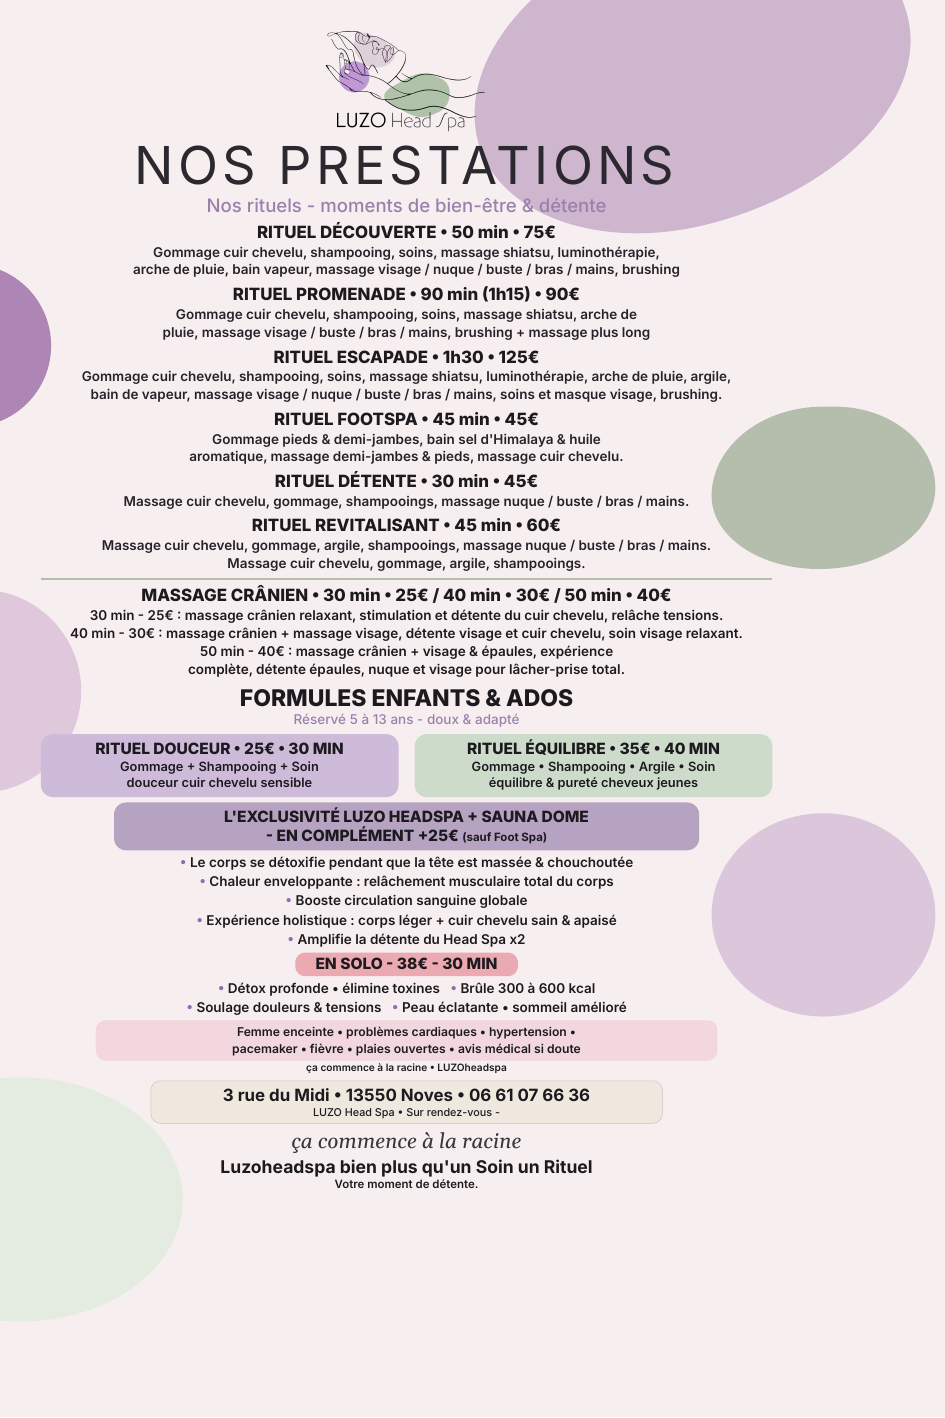
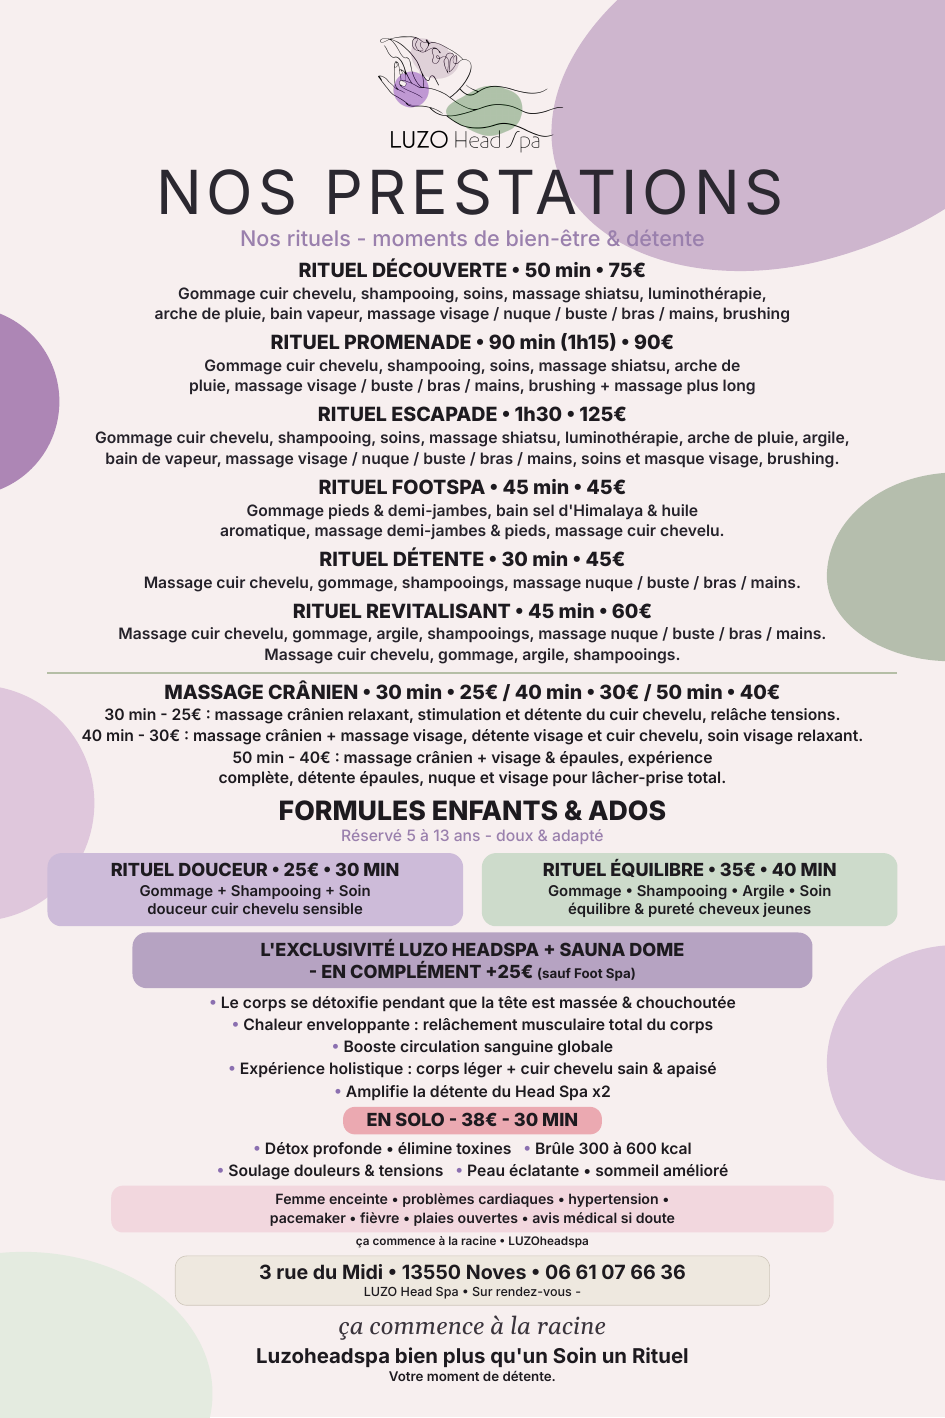
LUZO Head Spa 40×60 centrée : corrige le rétrécissement du PDF à l'impression (formes qui dépassaient), page pleine et centrée
Claude-Session: https://claude.ai/code/session_019cx1wraLMWwAprTLffv24G

diff --git a/affiches/luzo-head-spa/src/d-40x60.html b/affiches/luzo-head-spa/src/d-40x60.html
@@ -7,7 +7,8 @@
 @font-face{font-family:Script;font-style:italic;src:url(accent.ttf)}
 @page{size:40.0cm 60.0cm;margin:0}
 *{box-sizing:border-box;margin:0;padding:0}
-html,body{width:40.0cm;height:60.0cm}
+html,body{width:40.0cm;height:60.0cm;overflow:hidden}
+.bg{position:absolute;left:0;top:0;width:40.0cm;height:60.0cm;overflow:hidden;z-index:0}
 body{background:#f7efef;color:#1d1a1f;font-family:Inter,sans-serif;position:relative;overflow:hidden;text-align:center}
 .b{position:absolute;z-index:0}
 .pg{position:absolute;inset:0;padding:1.4cm 2cm 1.4cm 2cm;z-index:1;display:flex;flex-direction:column;justify-content:space-between;align-items:center}
@@ -39,14 +40,14 @@ hr{border:0;height:.08cm;background:#b5bea6;width:60%;margin:0 auto}
 .sc{font-family:Script;font-style:italic;font-size:1.029cm;color:#3a343c}
 .end{font-weight:700;font-size:0.863cm}
 .end2{font-weight:600;font-size:0.564cm}
-</style><body>
+</style><body><div class="bg">
 <div class="b" style="right:-5cm;top:-4cm;width:22cm;height:15cm;background:#ceb6ce;border-radius:60% 40% 55% 45%/55% 50% 50% 45%;transform:rotate(-14deg)"></div>
 <div class="b" style="left:-5.5cm;top:13cm;width:8cm;height:8cm;background:#ad86b5;border-radius:50%"></div>
 <div class="b" style="right:-6cm;top:20cm;width:11cm;height:8cm;background:#b5bead;border-radius:50% 45% 52% 48%/55% 50% 50% 45%"></div>
 <div class="b" style="left:-6cm;top:29cm;width:10cm;height:10cm;background:#dfc7dc;border-radius:50%"></div>
 <div class="b" style="right:-6cm;top:40cm;width:11cm;height:10cm;background:#dcc6dc;border-radius:50%"></div>
 <div class="b" style="left:-7cm;bottom:-5cm;width:16cm;height:12cm;background:#e4ebe0;border-radius:50%"></div>
-
+</div>
 <div class="pg">
 <div><img class="logo" src="logo.png" alt="LUZO Head Spa"><h1>NOS PRESTATIONS</h1><div class="sub">Nos rituels - moments de bien-être &amp; détente</div></div>
 <div class="rit"><h2>RITUEL DÉCOUVERTE • 50 min • 75€</h2><p>Gommage cuir chevelu, shampooing, soins, massage shiatsu, luminothérapie, arche de pluie, bain vapeur, massage visage / nuque / buste / bras / mains, brushing</p></div>

diff --git a/affiches/luzo-head-spa/src/build4.py b/affiches/luzo-head-spa/src/build4.py
@@ -10,7 +10,8 @@ css=f'''
 @font-face{{font-family:Script;font-style:italic;src:url(accent.ttf)}}
 @page{{size:{W}cm {H}cm;margin:0}}
 *{{box-sizing:border-box;margin:0;padding:0}}
-html,body{{width:{W}cm;height:{H}cm}}
+html,body{{width:{W}cm;height:{H}cm;overflow:hidden}}
+.bg{{position:absolute;left:0;top:0;width:{W}cm;height:{H}cm;overflow:hidden;z-index:0}}
 body{{background:#f7efef;color:#1d1a1f;font-family:Inter,sans-serif;position:relative;overflow:hidden;text-align:center}}
 .b{{position:absolute;z-index:0}}
 .pg{{position:absolute;inset:0;padding:1.4cm 2cm 1.4cm 2cm;z-index:1;display:flex;flex-direction:column;justify-content:space-between;align-items:center}}
@@ -51,7 +52,7 @@ blobs=f'''
 <div class="b" style="right:-6cm;top:40cm;width:11cm;height:10cm;background:#dcc6dc;border-radius:50%"></div>
 <div class="b" style="left:-7cm;bottom:-5cm;width:16cm;height:12cm;background:#e4ebe0;border-radius:50%"></div>
 '''
-html=f'''<!doctype html><html lang="fr"><meta charset="utf-8"><title>LUZO Head Spa — Nos prestations {W:g}x{H:g} cm</title><style>{css}</style><body>{blobs}
+html=f'''<!doctype html><html lang="fr"><meta charset="utf-8"><title>LUZO Head Spa — Nos prestations {W:g}x{H:g} cm</title><style>{css}</style><body><div class="bg">{blobs}</div>
 <div class="pg">
 <div><img class="logo" src="logo.png" alt="LUZO Head Spa"><h1>NOS PRESTATIONS</h1><div class="sub">Nos rituels - moments de bien-être &amp; détente</div></div>
 <div class="rit"><h2>RITUEL DÉCOUVERTE • 50 min • 75€</h2><p>Gommage cuir chevelu, shampooing, soins, massage shiatsu, luminothérapie, arche de pluie, bain vapeur, massage visage / nuque / buste / bras / mains, brushing</p></div>
